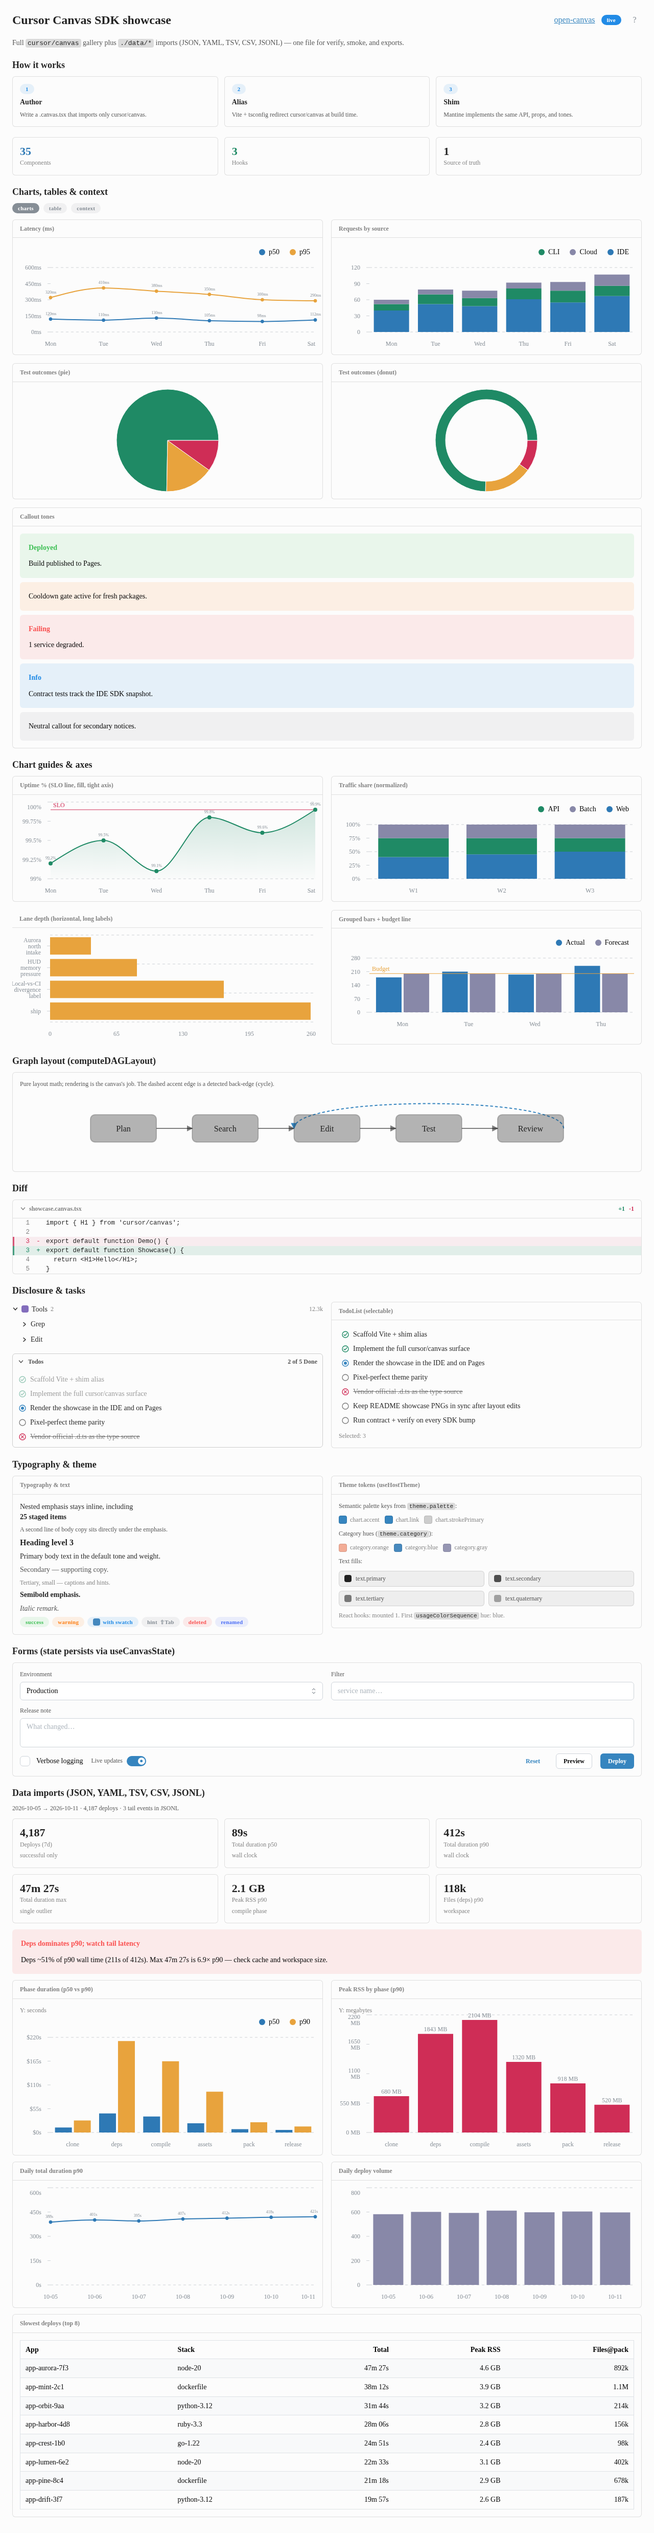
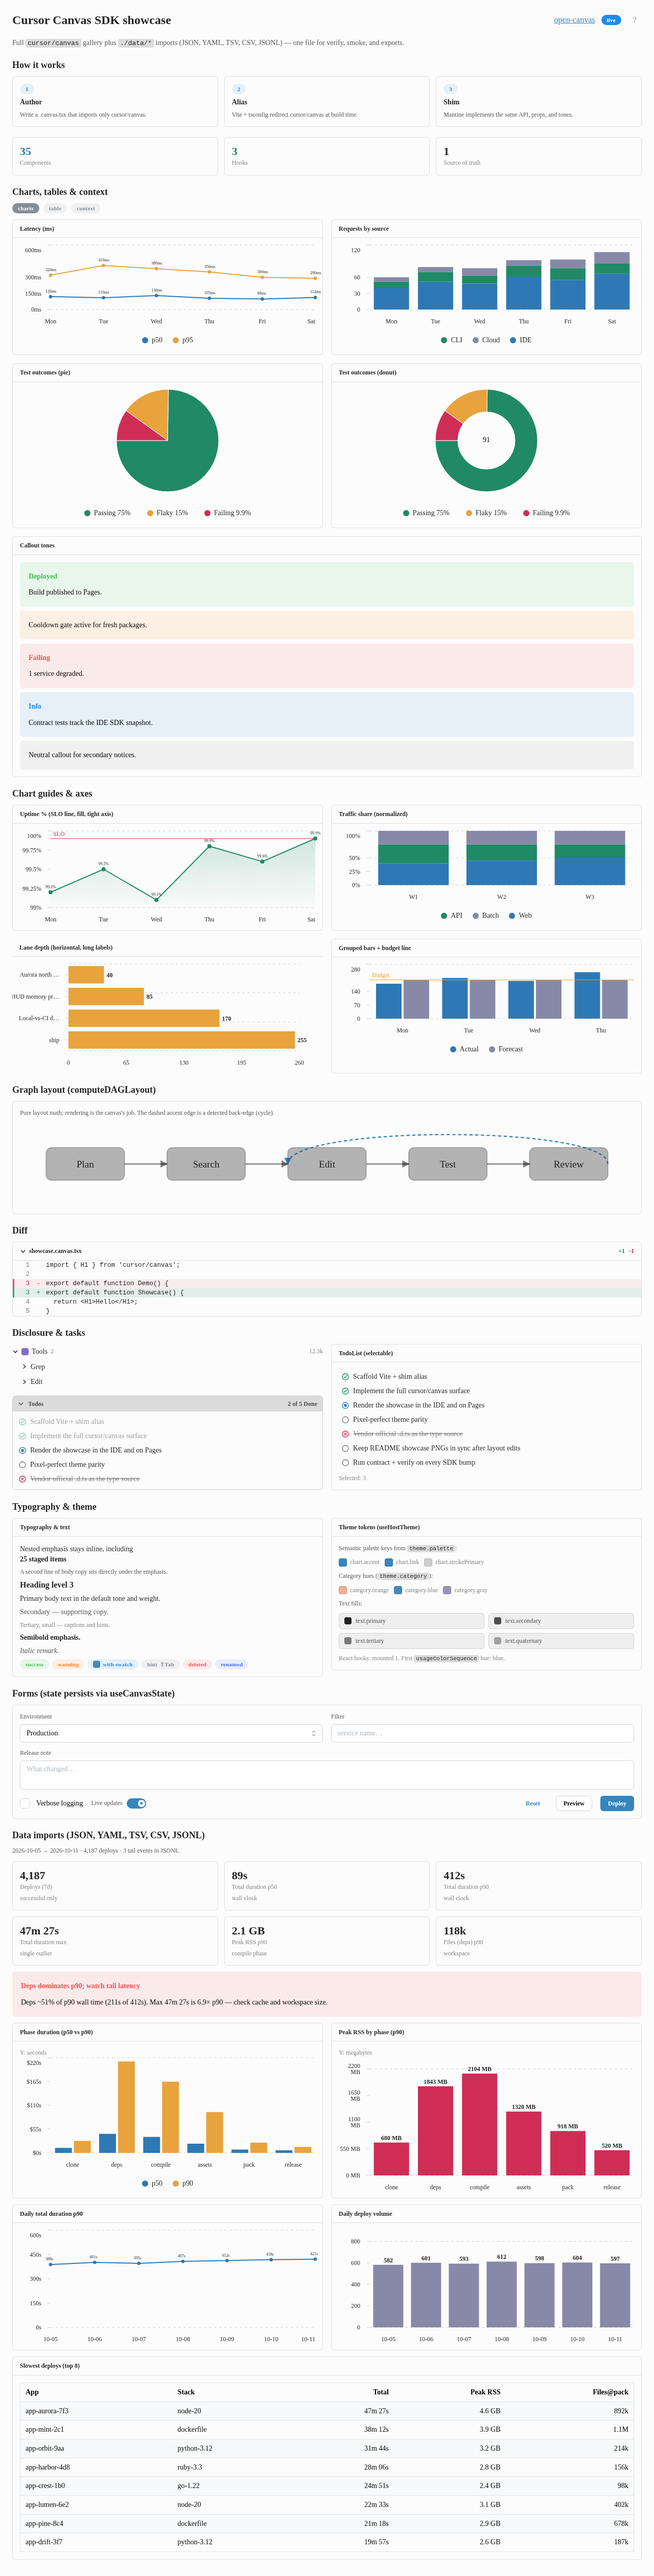
Bump cursor-canvas-web to 1.1.1 and document shim visual parity

diff --git a/.cursor/skills/shim-rollout/SKILL.md b/.cursor/skills/shim-rollout/SKILL.md
@@ -1,20 +1,20 @@
 ---
 name: shim-rollout
-description: Maintainer — cursor-canvas-web shim + open-canvas CLI together.
+description: Read when the shim is updated and how to roll it out.
 ---
 
 # Shim rollout
 
-| Symptom | Repo |
-|---------|------|
-| `cursor/canvas` render/API | `cursor-canvas-web` `src/shim/` |
-| verify, generate, pack, skill | `open-canvas` `src/` |
+|Symptom|Repo|
+|---|---|
+|`cursor/canvas` render/API|`cursor-canvas-web` `src/shim/`|
+|verify, generate, pack, skill|`open-canvas` `src/`|
 
 **SDK + `/canvas` skill:** `pnpm run sync:sdk` → `src/vendor/canvas-sdk/` + `src/vendor/canvas/SKILL.md`. `open-canvas skill` copies those into the agent skill dir.
 
 **Order:** shim `ci:local` → `.cursor/skills/shim-rollout/scripts/sync-local-shim.sh` → open-canvas `ci:local` → publish shim → open-canvas `^` shim version → publish open-canvas.
 
-**Charts:** Bar/Line `height`; Pie `size` (shim maps to Recharts).
+**Charts:** Bar/Line `height`; Pie `size` (shim maps to Recharts). Visual gaps vs the IDE: [shim-visual](../shim-visual/SKILL.md).
 
 **Scripts:** `sync-local-shim.sh`, `verify-showcase-visual.sh` (`.cache/showcase-charts-verify.jpg`).
 

diff --git a/.cursor/skills/shim-visual/SKILL.md b/.cursor/skills/shim-visual/SKILL.md
@@ -1,0 +1,30 @@
+---
+name: shim-visual
+description: Read when matching shim render to the Cursor IDE canvas.
+---
+
+# Shim visual parity
+
+Same `.canvas.tsx` in the IDE and in `open-canvas generate`. Diffs are shim bugs.
+
+|Symptom|Where|
+|---|---|
+|Chart, card, todo, DAG look wrong|`cursor-canvas-web` `src/shim/`|
+|PNG docs stale|this repo `npm run example:screenshot`|
+
+**NEVER** restyle `example/showcase.canvas.tsx` (or any canvas) to hide a render gap. Layout math the canvas already passes (`padding`, `rankGap`, `viewBox`) stays.
+
+**Prefer Mantine props** (`legendProps`, `textColor`, `curveType`, `startAngle`, `thickness`, `chartLabel`, `valueFormatter`, `withBarValueLabel`) over custom DOM.
+
+**After each visual fix:**
+
+```bash
+.cursor/skills/shim-rollout/scripts/sync-local-shim.sh
+npm run example:screenshot
+```
+
+Then `pnpm test` in `cursor-canvas-web`. Confirm both `docs/showcase-light.png` and `docs/showcase-dark.png`.
+
+Known mappings: [references/parity.md](references/parity.md).
+
+Release / publish order: [shim-rollout](../shim-rollout/SKILL.md).

diff --git a/.cursor/skills/shim-visual/references/parity.md b/.cursor/skills/shim-visual/references/parity.md
@@ -1,0 +1,15 @@
+# IDE vs shim (durable)
+
+Append a row when a Cursor screenshot disagrees with our PNG. Fix lives in the shim.
+
+|Cursor|Shim|
+|---|---|
+|Line/area straight|`curveType: 'linear'` unless `smooth`|
+|Legend under the plot, centered|`legendProps.verticalAlign: 'bottom'` + legend style `justifyContent: 'center'`|
+|Pie rotated 180°, donut thicker, center `N` / `Total`|`startAngle` 180 / `endAngle` 540, `thickness`, `chartLabel`|
+|Pie legend horizontal (`Name 75%`)|`ChartLegend` row, not a column|
+|Bar values bold above (or right if horizontal), even with no suffix|always pass `valueFormatter`; `valueLabelProps.fontWeight: 700`; vertical charts need top `margin` or labels clip|
+|Horizontal category labels one line + tooltip|custom Y tick + SVG `<title>`|
+|Card titles near-white in dark|`CardHeader` `text.primary`; chart `textColor` = host foreground (not Mantine dimmed)|
+|`TodoListCard` header gray; `TodoList` bare|header `fill.secondary` only|
+|Wide SVG letterboxed (`maxHeight` + `meet`)|host CSS clears `max-height` on `svg[viewBox][width='100%']`|
